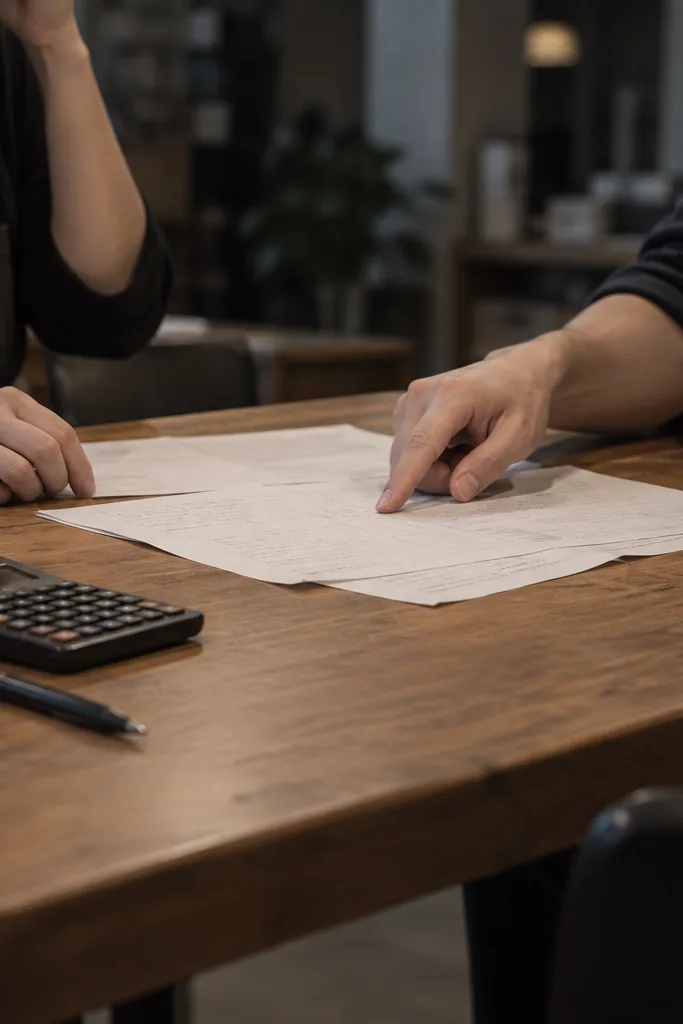
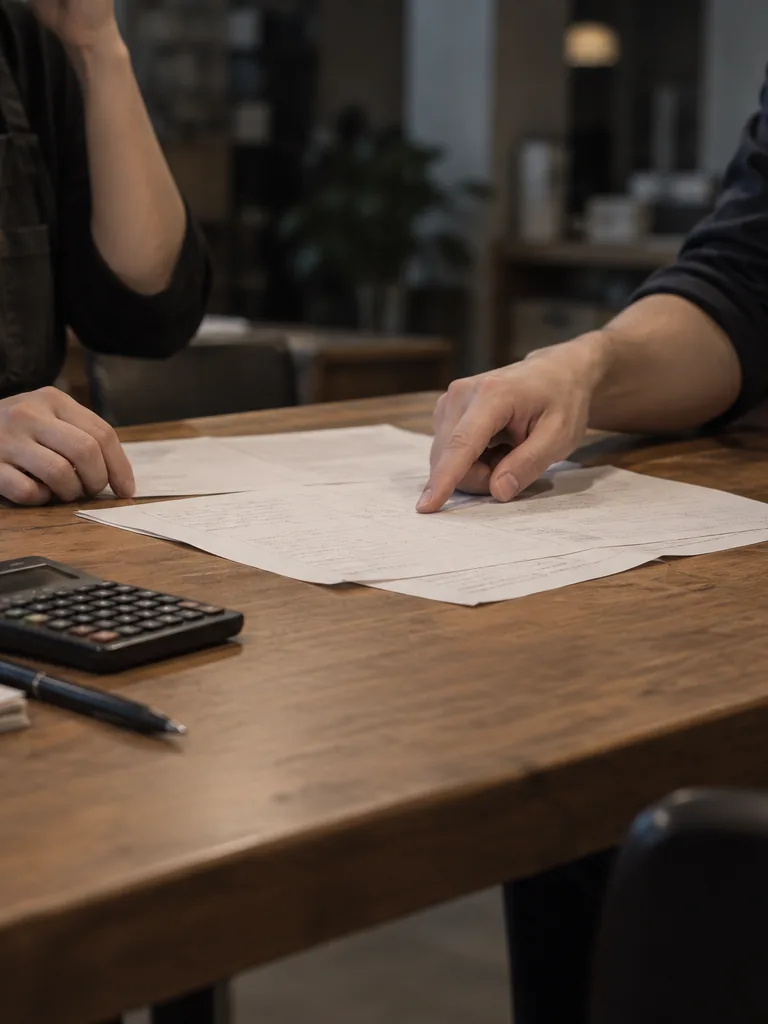
Take the cash-flow photo out of flow so the copy sets the row height
Stretching the photo could never shrink it: the row was as tall as the photo
because the photo was what made it tall. Absolutely position the picture so
it contributes no height, and the row falls to the height of the copy beside
it, which the stretched container then fills.

Recrop the source to 3:4 to match what the layout now asks for — 768x1024,
using half the original frame instead of 44% of it, and enough for 2x at the
380px column. Anchor the crop at 30% so what gets trimmed is the empty table
at the bottom rather than the hands.

diff --git a/Duo_LPモック/tokens.css b/Duo_LPモック/tokens.css
@@ -839,16 +839,20 @@ body[data-domain="kotehi"] .catch{font-size:min(6.6vw, 26px);}
 /* ============================================================
    05のFV：上段だけ2カラム
    支援の範囲から下（.fv__wide）は横幅いっぱいに回す。
-   写真は上段の高さ（＝左の文字ブロックの高さ）に合わせて切る。比率より高さを優先。
-   .shot は flex コンテナで、中の <picture> が高さを持たないと img の height:100% が
-   解決しない。picture に flex:1 を渡して初めて写真が縮む。
+
+   写真は左の文字ブロックの高さに切る。ポイントは
+   **写真を通常フローから外すこと**。align-self:stretch を当てるだけでは、
+   行の高さを決めているのが写真自身なので何も縮まない（高さが循環する）。
+   picture を position:absolute にすると .shot の高さ寄与がゼロになり、
+   行の高さ＝左の文字ブロックの高さに決まって、そこへ stretch で伸びる。
+
    .shot__img の aspect-ratio を上書きするため、この層（ファイル末尾）に置いている。
    ============================================================ */
 @media (min-width:860px){
   body[data-domain="shikin"] .fv__wide{grid-column:1 / -1;margin-top:var(--s-8);}
   body[data-domain="shikin"] .shot{align-self:stretch;}
-  body[data-domain="shikin"] .shot picture{display:block;flex:1 1 auto;min-height:0;}
+  body[data-domain="shikin"] .shot picture{position:absolute;inset:0;display:block;}
   body[data-domain="shikin"] .shot__img{
-    aspect-ratio:auto;width:100%;height:100%;object-fit:cover;object-position:center 42%;
+    aspect-ratio:auto;width:100%;height:100%;object-fit:cover;object-position:center 30%;
   }
 }

diff --git a/Duo_LPモック/05-shikinguri.html b/Duo_LPモック/05-shikinguri.html
@@ -68,7 +68,7 @@
       <picture>
         <source media="(max-width:859px)" srcset="images/05-shikin-sp.webp" width="800" height="533">
         <img class="shot__img" src="images/05-shikin-hero-v.webp"
-           width="683" height="1024" loading="eager" decoding="async"
+           width="768" height="1024" loading="eager" decoding="async"
            alt="閉店後のテーブル。手書きの表を広げて、エプロン姿の店主と担当者が向かい合い、担当者が表の一行を指さしている。顔は写っていない。">
       </picture>
     </aside>
